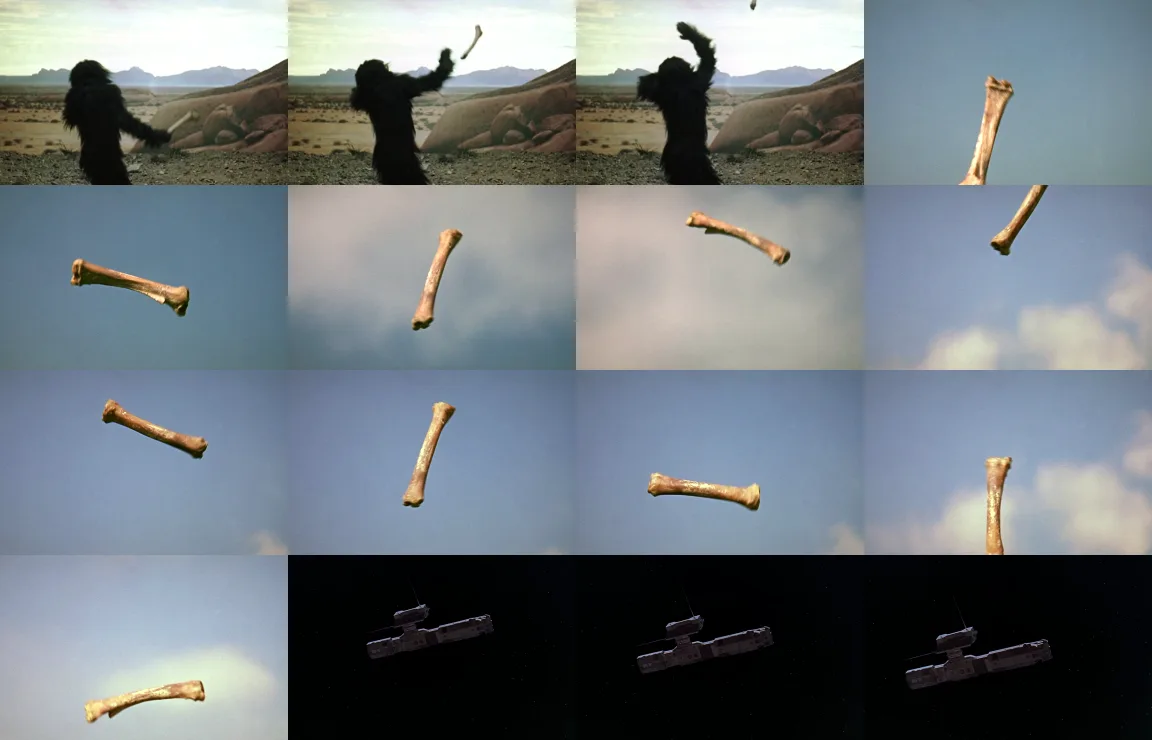
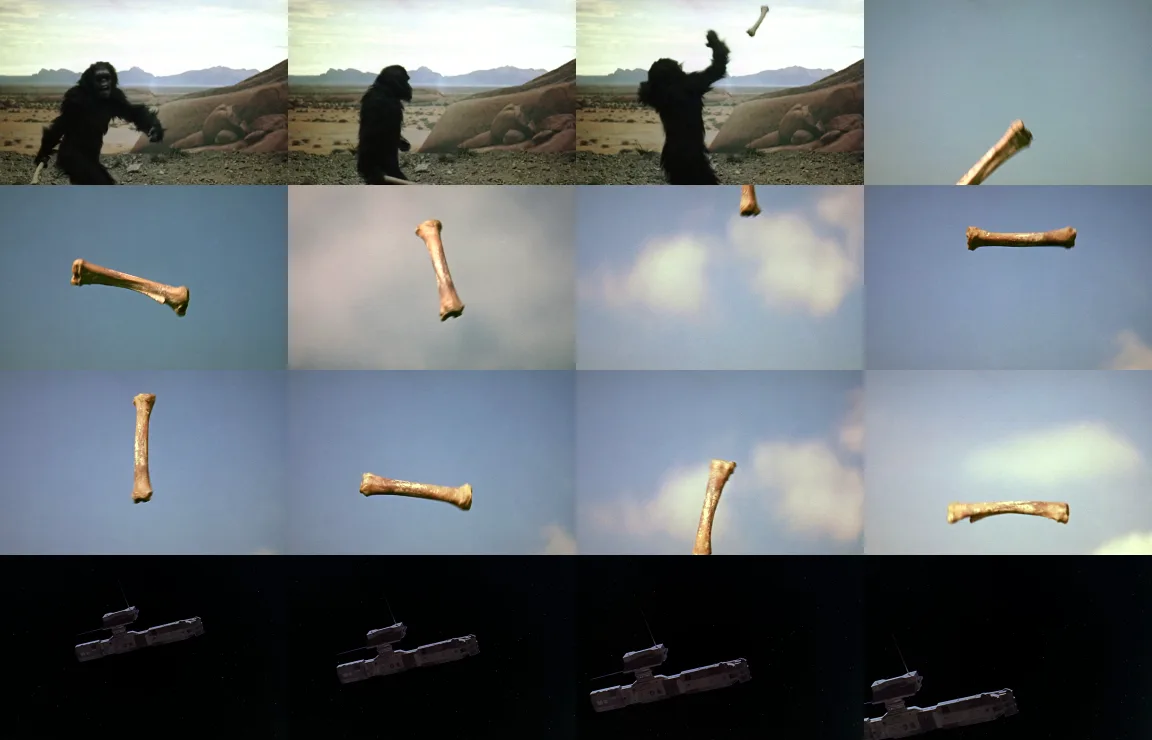
add cinema

diff --git a/components/landing/ParadisoWordmark.tsx b/components/landing/ParadisoWordmark.tsx
@@ -11,7 +11,8 @@ type Letter = {
   image: string;
   position: string;
   // Cut-out collage: heavy grotesk mixed with black italic serif, each letter
-  // at its own size (cqi), baseline shift (em), tilt (deg) and overlap (em).
+  // at its own size (cqi, scaled by its line's --fit), baseline shift (em),
+  // tilt (deg) and overlap (em).
   serif?: boolean;
   size: number;
   y: number;
@@ -19,7 +20,15 @@ type Letter = {
   overlap: number;
 };
 
-const rows: Letter[][] = [
+const words: Letter[][] = [
+  [
+    { letter: "C", image: gridPosters.vertigo.image, position: "50%", size: 21, y: 0.02, rotate: -2, overlap: 0 },
+    { letter: "I", image: gridPosters.her.image, position: "40%", serif: true, size: 22, y: -0.03, rotate: 3, overlap: -0.02 },
+    { letter: "N", image: gridPosters.amelie.image, position: "55%", size: 21, y: 0.03, rotate: -3, overlap: -0.04 },
+    { letter: "E", image: gridPosters.laLaLand.image, position: "60%", serif: true, size: 22, y: -0.02, rotate: 2, overlap: -0.03 },
+    { letter: "M", image: gridPosters.rearWindow.image, position: "45%", size: 21, y: 0.02, rotate: -2, overlap: -0.04 },
+    { letter: "A", image: gridPosters.taxiDriver.image, position: "50%", size: 22, y: -0.04, rotate: 3, overlap: -0.04 },
+  ],
   [
     { letter: "P", image: gridPosters.parisTexas.image, position: "35%", size: 32, y: 0.02, rotate: -3, overlap: 0 },
     { letter: "A", image: gridPosters.dune.image, position: "20%", size: 33, y: -0.04, rotate: 2, overlap: -0.05 },
@@ -33,8 +42,16 @@ const rows: Letter[][] = [
     { letter: "O", image: gridPosters.twelveAngryMen.image, position: "60%", size: 31, y: -0.06, rotate: 2, overlap: -0.03 },
   ],
 ];
-const letters = rows.flat();
-const ACCENT_INDEX = 5;
+const letters = words.flat();
+const wordStart = words.map((_, index) =>
+  words.slice(0, index).reduce((count, word) => count + word.length, 0),
+);
+// CINEMA / PARADISO across the width; phones stack PARA over DISO at full size.
+const lines = [
+  { words: [0], className: "" },
+  { words: [1, 2], className: "-mt-[1cqi] [--fit:0.53] max-sm:block max-sm:[--fit:1]" },
+];
+const ACCENT_INDEX = 11;
 
 // CSS fallback for reduced motion or when WebGL is unavailable.
 function startReveal(event: SyntheticEvent<HTMLButtonElement>) {
@@ -102,51 +119,55 @@ export default function ParadisoWordmark() {
       ref={containerRef}
       className={`${fontDisplay.variable} relative w-full select-none py-[3cqi] [container-type:inline-size]`}
       role="group"
-      aria-label="Interactive Paradiso lettering"
+      aria-label="Interactive Cinema Paradiso lettering"
     >
-      {rows.map((row, rowIndex) => (
-        <div
-          key={rowIndex}
-          className={`flex items-end ${rowIndex === 1 ? "-mt-[2cqi] pl-[8cqi]" : ""}`}
-        >
-          {row.map(({ letter, image, position, serif, size, y, rotate, overlap }, column) => {
-            const order = rowIndex * row.length + column;
-            return (
-              <button
-                key={order}
-                type="button"
-                className={`group relative min-w-0 shrink-0 cursor-pointer touch-manipulation bg-transparent leading-[0.86] focus-visible:z-[1] focus-visible:outline-2 focus-visible:outline-offset-4 focus-visible:outline-accent ${serif ? "font-[family-name:var(--font-display)] font-black italic" : "font-sans font-black"} ${order === ACCENT_INDEX ? "text-accent" : "text-ink"}`}
-                aria-label={`Reveal cinematic artwork in letter ${letter}, ${order + 1} of 8`}
-                onPointerEnter={ready ? undefined : startReveal}
-                onFocus={handleFocus}
-                onClick={handleClick}
-                style={{
-                  fontSize: `${size}cqi`,
-                  marginLeft: `${overlap}em`,
-                  transform: `translateY(${y}em) rotate(${rotate}deg)`,
-                  "--letter-image": `url("${image}")`,
-                  "--image-position": position,
-                } as CSSProperties}
-              >
-                <span
-                  data-letter-glyph
-                  className={`block px-[0.02em] transition-opacity duration-500 ${ready ? "opacity-0" : ""}`}
-                  aria-hidden="true"
-                >
-                  {letter}
-                </span>
-                {!ready && (
-                  <span
-                    data-letter-artwork
-                    className="absolute inset-0 px-[0.02em] bg-[image:var(--letter-image)] [background-size:auto_130%] [background-position:var(--image-position)_45%] bg-clip-text text-transparent [clip-path:inset(0_100%_0_0)] motion-reduce:group-hover:[clip-path:inset(0_0_0_0)] motion-reduce:group-focus-visible:[clip-path:inset(0_0_0_0)] motion-reduce:animate-none"
-                    aria-hidden="true"
+      {lines.map((line, lineIndex) => (
+        <div key={lineIndex} className={`flex items-end ${line.className}`}>
+          {line.words.map((wordIndex) => (
+            <div
+              key={wordIndex}
+              className={`flex items-end ${wordIndex === 2 ? "max-sm:-mt-[2cqi] max-sm:pl-[8cqi]" : ""}`}
+            >
+              {words[wordIndex].map(({ letter, image, position, serif, size, y, rotate, overlap }, column) => {
+                const order = wordStart[wordIndex] + column;
+                return (
+                  <button
+                    key={order}
+                    type="button"
+                    className={`group relative min-w-0 shrink-0 cursor-pointer touch-manipulation bg-transparent leading-[0.86] [font-size:calc(var(--size)*var(--fit,1)*1cqi)] focus-visible:z-[1] focus-visible:outline-2 focus-visible:outline-offset-4 focus-visible:outline-accent ${serif ? "font-[family-name:var(--font-display)] font-black italic" : "font-sans font-black"} ${order === ACCENT_INDEX ? "text-accent" : "text-ink"}`}
+                    aria-label={`Reveal cinematic artwork in letter ${letter}, ${order + 1} of ${letters.length}`}
+                    onPointerEnter={ready ? undefined : startReveal}
+                    onFocus={handleFocus}
+                    onClick={handleClick}
+                    style={{
+                      "--size": size,
+                      marginLeft: `${overlap}em`,
+                      transform: `translateY(${y}em) rotate(${rotate}deg)`,
+                      "--letter-image": `url("${image}")`,
+                      "--image-position": position,
+                    } as CSSProperties}
                   >
-                    {letter}
-                  </span>
-                )}
-              </button>
-            );
-          })}
+                    <span
+                      data-letter-glyph
+                      className={`block px-[0.02em] transition-opacity duration-500 ${ready ? "opacity-0" : ""}`}
+                      aria-hidden="true"
+                    >
+                      {letter}
+                    </span>
+                    {!ready && (
+                      <span
+                        data-letter-artwork
+                        className="absolute inset-0 px-[0.02em] bg-[image:var(--letter-image)] [background-size:auto_130%] [background-position:var(--image-position)_45%] bg-clip-text text-transparent [clip-path:inset(0_100%_0_0)] motion-reduce:group-hover:[clip-path:inset(0_0_0_0)] motion-reduce:group-focus-visible:[clip-path:inset(0_0_0_0)] motion-reduce:animate-none"
+                        aria-hidden="true"
+                      >
+                        {letter}
+                      </span>
+                    )}
+                  </button>
+                );
+              })}
+            </div>
+          ))}
         </div>
       ))}
       <canvas

diff --git a/app/(pages)/page.tsx b/app/(pages)/page.tsx
@@ -35,7 +35,7 @@ export default async function Home() {
         aria-labelledby="landing-title"
       >
         <h1 id="landing-title" className="sr-only">
-          Paradiso — cinema for your circle
+          Cinema Paradiso — cinema for your circle
         </h1>
         <div className={styles.hero}>
           <ParadisoWordmark />
@@ -91,9 +91,6 @@ export default async function Home() {
         </div>
         <div className="grid">
           <CinemaGrid />
-          <p className="mt-4 justify-self-end font-mono text-[11px] uppercase tracking-[0.16em] text-muted">
-            Hover a frame to reveal the film
-          </p>
         </div>
       </section>
       <section

diff --git a/components/landing/CinemaHero.module.css b/components/landing/CinemaHero.module.css
@@ -1,15 +1,9 @@
 .hero {
-  display: grid;
-  grid-template-columns: 1.3fr 1fr;
-  align-items: center;
-  gap: clamp(24px, 4vw, 72px);
   padding: 16px 0 32px;
 }
 
 @media (max-width: 640px) {
   .hero {
-    grid-template-columns: 1fr;
-    gap: 24px;
     padding-top: 0;
     padding-bottom: 24px;
   }
